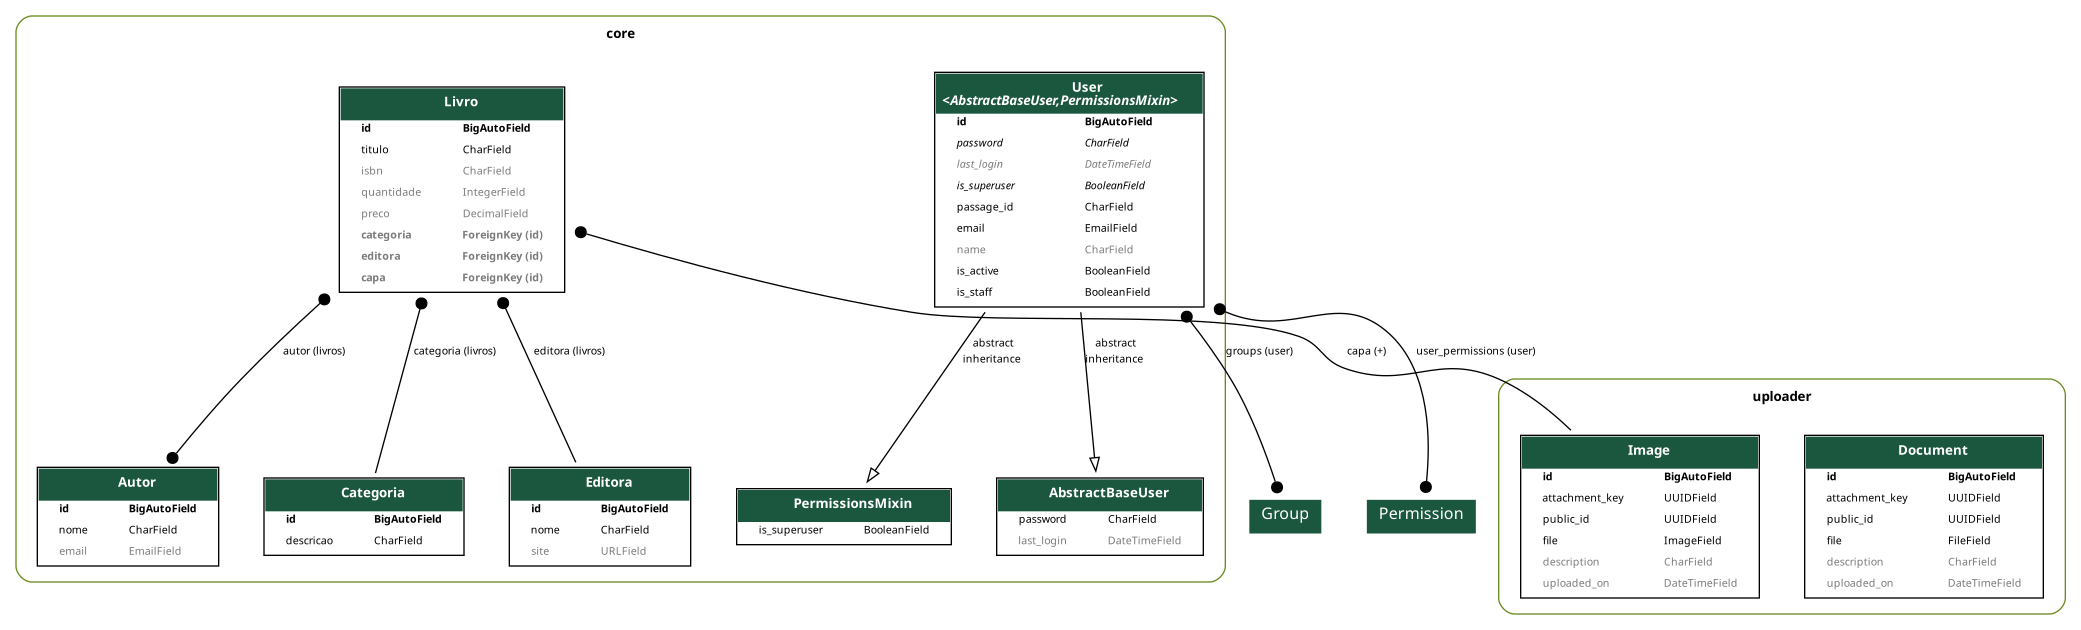
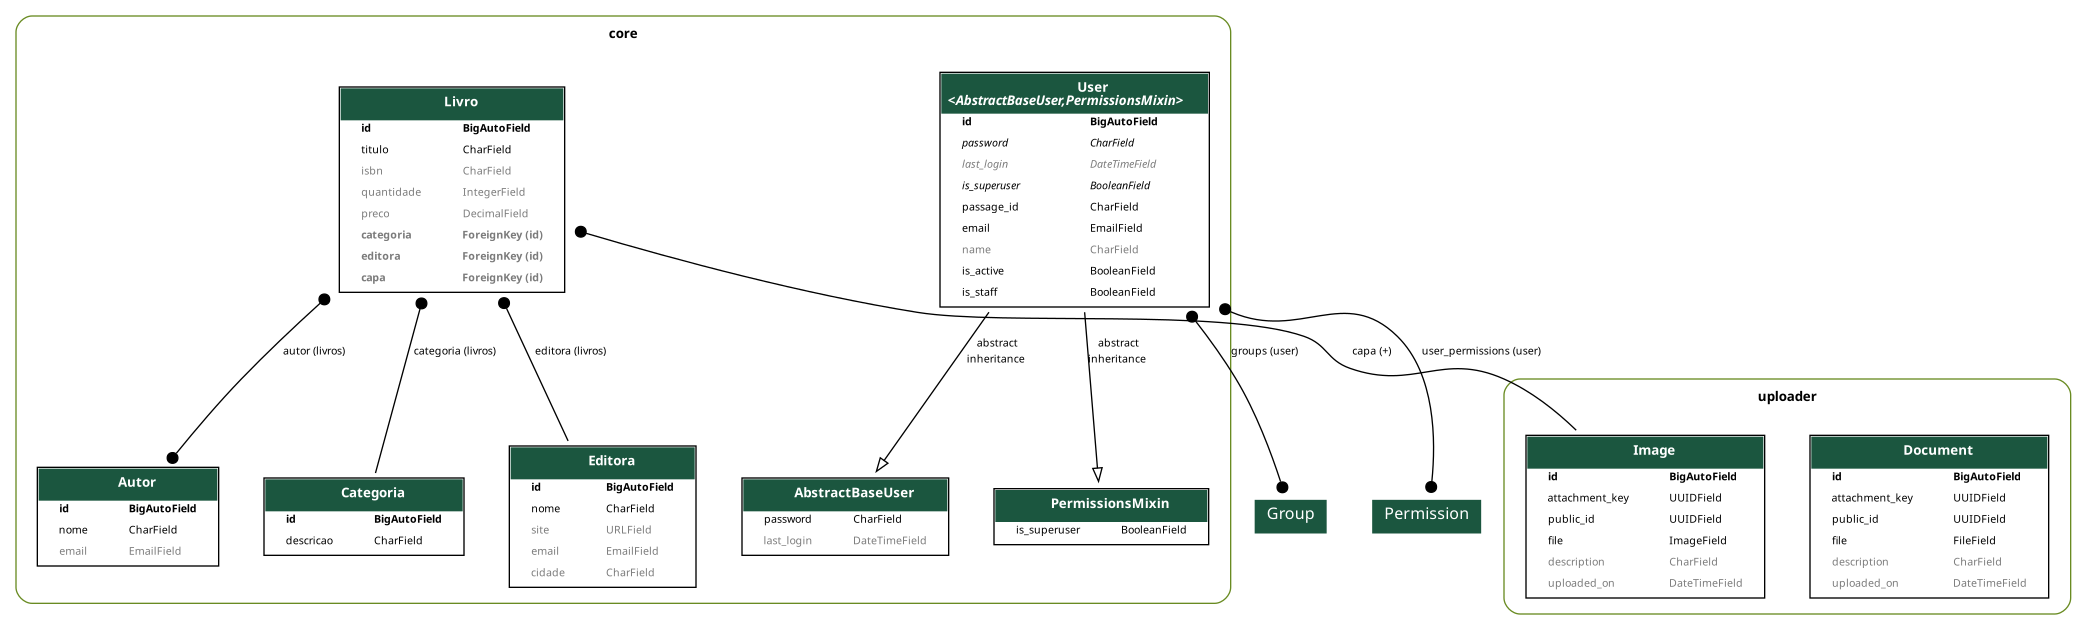
Uso do Django Shell e do Django Shell Plus

diff --git a/core/migrations/0013_editora_cidade_editora_email.py b/core/migrations/0013_editora_cidade_editora_email.py
@@ -1,0 +1,23 @@
+# Generated by Django 5.1.3 on 2024-12-03 12:39
+
+from django.db import migrations, models
+
+
+class Migration(migrations.Migration):
+
+    dependencies = [
+        ("core", "0012_livro_capa"),
+    ]
+
+    operations = [
+        migrations.AddField(
+            model_name="editora",
+            name="cidade",
+            field=models.CharField(blank=True, max_length=100, null=True),
+        ),
+        migrations.AddField(
+            model_name="editora",
+            name="email",
+            field=models.EmailField(blank=True, max_length=100, null=True),
+        ),
+    ]
